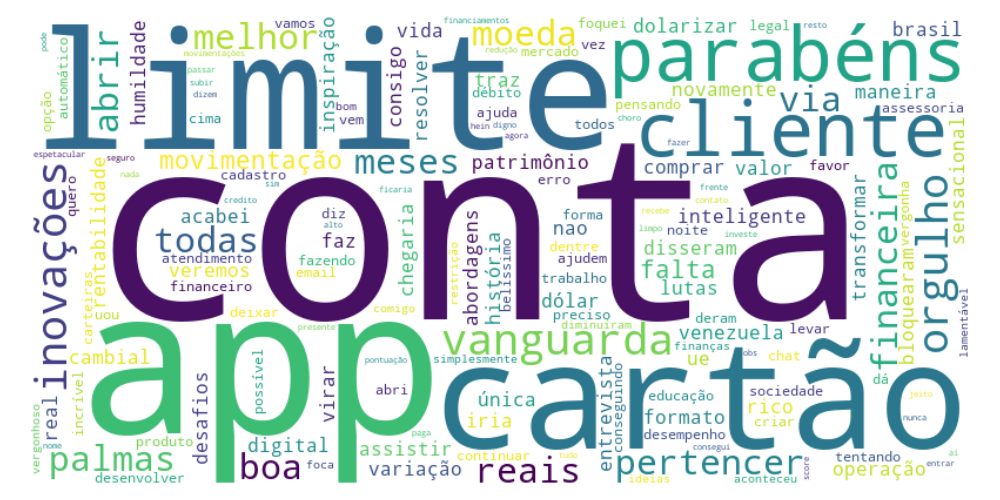
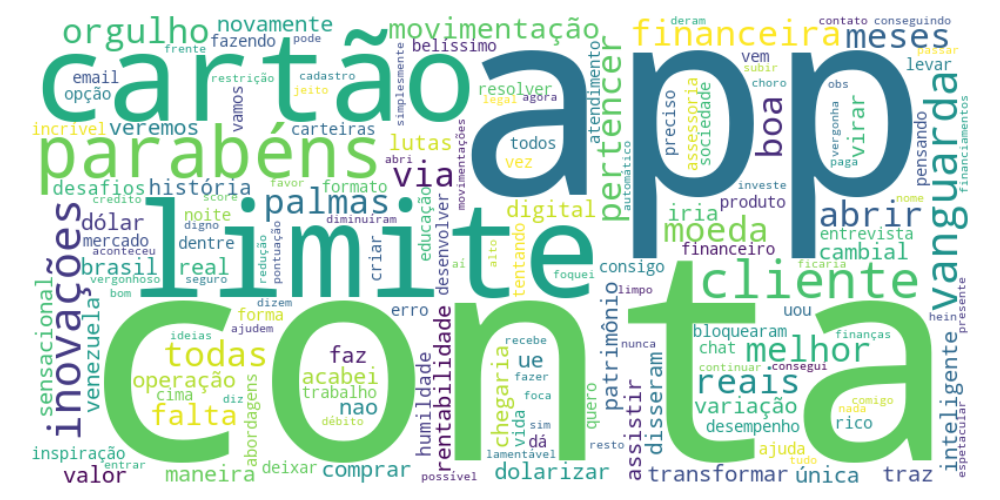
conserto das requisicoes

diff --git a/src/front/components/FeelingsCard.tsx b/src/front/components/FeelingsCard.tsx
@@ -2,13 +2,12 @@ import React, { useEffect, useState, useMemo } from "react";
 import Card from "./Card";
 import Chart from "./Chart";
 import { ArrowRightCircle } from "lucide-react";
-import { usePostLink } from "../contexts/postLink";
+import { usePost } from "../contexts/post";
 import axios from "../axios";
 
 const FeelingsCard = () => {
-	const { postLink } = usePostLink();
+	const { postLink, postData } = usePost();
 
-	const [chartData, setChartData] = useState([]);
 
 	const data = useMemo(() => {
 		return {
@@ -16,30 +15,19 @@ const FeelingsCard = () => {
 			datasets: [
 				{
 					label: "Proporção de sentimentos",
-					data: [chartData[0], chartData[1], chartData[2]],
+					data: [postData?.proportions[0], postData?.proportions[1], postData?.proportions[2]],
 					backgroundColor: ["#FF2323", "#F5F5F5", "#00D02E"],
 					borderWidth: 1,
 				},
 			],
 		};
-	}, [chartData]);
-
-	const getChartData = async () => {
-		if (postLink) {
-			const { data } = await axios.post("/proporcoes", postLink);
-			setChartData(data);
-		}
-	};
-
-	useEffect(() => {
-		getChartData();
-	}, [postLink]);
+	}, [postData?.proportions]);
 
 	return (
 		<Card gridClass="row-span-2 col-span-2 h-full" title="Sentimentos">
 			<div className="flex h-60 items-end justify-between gap-4 overflow-hidden">
 				<div className="ml-12 h-80 grow self-center">
-					{chartData && <Chart data={data} />}
+					{postData?.proportions && <Chart data={data} />}
 				</div>
 				<div className="flex cursor-pointer items-center gap-2 text-lg font-bold text-[#195AB4] transition-all hover:scale-105">
 					Ver sentimento por comentário

diff --git a/src/front/pages/index.tsx b/src/front/pages/index.tsx
@@ -4,40 +4,25 @@ import WordCloudCard from "../components/WordCloudCard";
 import Top from "../components/TopWordsCard";
 import FeelingsCard from "../components/FeelingsCard";
 import InputCard from "../components/InputCard";
-import { usePostLink } from "../contexts/postLink";
+import { usePost } from "../contexts/post";
 import axios from "../axios";
 
 
 const Home = () => {
-	const { postLink } = usePostLink();
-	const [topWords, setTopWords] = useState([]);
+	const { postLink, postData } = usePost();
 	
-	const getTopWords = async () => {
-		const { data } = await axios.post("/top-palavras", postLink);
-		setTopWords(data.top_palavras);
-	};
+	
 
 	const topWordsMemo = useMemo(
 		() =>
-			topWords.map((word) => {
+		postData?.top_words.map((word: any) => {
 				return {
 					text: word[0],
 					frequency: word[1],
 				};
 			}),
-		[topWords],
+		[postData],
 	);
-
-	const getTopProfiles = async () => {
-		const { data } = await axios.post("/top-palavras", postLink);
-		setTopWords(data);
-	};
-
-	useEffect(() => {
-		if (postLink) {
-			getTopWords();
-		}
-	}, [postLink]);
 
 	const profiles = [
 		{
@@ -49,12 +34,12 @@ const Home = () => {
 		<Layout title={"Home"}>
 			<div className="grid h-full grid-cols-3 grid-rows-6 gap-4">
 				<InputCard />
-				<Top
+				 <Top
 					gridClasses="row-span-3"
 					title="Top 10 palavras"
 					words={topWordsMemo}
 				/>
-				<WordCloudCard />
+				 <WordCloudCard />
 				<Top
 					words={profiles}
 					title="Top perfis engajados"

diff --git a/src/front/components/CommentCard.tsx b/src/front/components/CommentCard.tsx
@@ -1,23 +1,10 @@
 import React, { useEffect, useState } from 'react'
 import Card from './Card'
 import axios from '../axios';
-import { usePostLink } from '../contexts/postLink';
+import { usePost } from '../contexts/post';
 
 const CommentCard = () => {
-    const { postLink } = usePostLink();
-	const [data, setData] = useState([]);
-
-    const getData = async () => {
-		const { data: res } = await axios.post("/classificar", postLink);
-        console.log(res)
-		setData(res);
-	};
-
-	useEffect(() => {
-		if (postLink) {
-			getData();
-		}
-	}, [postLink]);
+    const { postLink, postData } = usePost();
 
   return (
     <Card gridClass='grow'>
@@ -30,7 +17,7 @@ const CommentCard = () => {
                 </tr>
             </thead>
             <tbody>
-                {data.length > 0 && data.map((item: any) => (
+                {postData?.classificacao.length > 0 && postData?.classificacao.map((item: any) => (
                 <tr key={item.author} className='bg-[#F6F6F6] overflow-hidden rounded-2xl'>
                     <td className='p-2 px-6 max-w-xl'>{item.author}</td>
                     <td className='p-2 px-6 max-w-xl'>{item.comment}</td>

diff --git a/src/front/components/InputCard.tsx b/src/front/components/InputCard.tsx
@@ -6,16 +6,17 @@ import Button from "./Button";
 import { useForm } from "react-hook-form";
 import * as yup from "yup";
 import { yupResolver } from "@hookform/resolvers/yup";
-import { usePostLink } from "../contexts/postLink";
+import { usePost } from "../contexts/post";
 import JsonData from "../utils/top-palavras.json";
+import axios from "../axios";
 
 const validationSchema = yup.object({
 	linkInput: yup.string().required("Esse campo é obrigatório"),
 });
 
 const InputCard = () => {
-	const { postLink, setPostLink } = usePostLink();
-
+	const { postLink, setPostLink, setPostData, postData } = usePost();
+	console.log(postData)
 	const {
 		register,
 		handleSubmit,
@@ -27,12 +28,17 @@ const InputCard = () => {
 		}
 	});
 
-	const onSubmit = (data: any) => {
+	const onSubmit = async (data: any) => {
 		try {
 			const jsonInfo = JSON.parse(data.linkInput);
 			setPostLink(jsonInfo)
+			const  {data: res} = await axios.post('/post-analysis', jsonInfo)
+			setPostData(res)
+
 		} catch (err) {
 			setPostLink(JsonData);
+			const  {data: res} = await axios.post('/post-analysis', JsonData)
+			setPostData(res)
 		}
 	};
 

diff --git a/src/front/contexts/post.tsx b/src/front/contexts/post.tsx
@@ -1,0 +1,50 @@
+import React, { createContext, useState, useContext } from "react";
+
+interface Post {
+	classificacao: any
+	proportions: any
+	top_words: any
+	biggest_cor: any
+	words_cloud: any
+}
+
+interface PostContextInterface {
+	postLink: any;
+	setPostLink(postLink: any): void;
+	postData: Post | null;
+	setPostData(postData: Post | null): void;
+}
+
+const PostContext = createContext<PostContextInterface | null>(null);
+
+export default function PostProvider({ children }: any) {
+	const [postLink, setPostLink] = useState<any>(null);
+	const [postData, setPostData] = useState<Post | null>(null);
+
+	return (
+		<PostContext.Provider
+			value={{
+				postLink,
+				setPostLink,
+				postData,
+				setPostData
+			}}
+		>
+			{children}
+		</PostContext.Provider>
+	);
+}
+
+export function usePost() {
+	const context = useContext(PostContext);
+	if (!context)
+		throw new Error("usePost must be used within a PostProvider");
+	const {postLink,
+		setPostLink,
+		postData,
+		setPostData } = context;
+	return { postLink,
+		setPostLink,
+		postData,
+		setPostData};
+}

diff --git a/src/front/components/WordCloudCard.tsx b/src/front/components/WordCloudCard.tsx
@@ -2,27 +2,15 @@ import React, { useEffect, useState } from 'react'
 import Card from './Card'
 import Image from 'next/image'
 import axios from '../axios';
-import { usePostLink } from '../contexts/postLink';
+import { usePost } from '../contexts/post';
 
 const WordCloudCard = () => {
-  const { postLink} = usePostLink()
-  const [imageLink, setImageLink] = useState(null)
-  
-	const getImageLink = async () => {
-		const { data } = await axios.post("/nuvem-palavras", postLink);
-		setImageLink(data.imagem_nuvem);
-    console.log(data.imagem_nuvem)
-	};
-
-	useEffect(() => {
-		if (postLink) {
-			getImageLink();
-		}
-	}, [postLink]);
-
+  const { postLink, postData} = usePost()
+ 
+	
   return (
     <Card gridClass="row-span-3 col-span-2" title="Nuvem de palavras">
-       {imageLink && <img src={imageLink}  alt="Nuvem de palavras"/>}
+       {postData && postData?.words_cloud && <img src={postData?.words_cloud}  alt="Nuvem de palavras"/>}
     </Card>
 
   )

diff --git a/src/front/pages/_app.tsx b/src/front/pages/_app.tsx
@@ -1,12 +1,12 @@
 import type { AppProps } from "next/app";
 import "../styles/globals.css";
 import "chart.js";
-import PostLinkProvider from "../contexts/postLink";
+import PostProvider from "../contexts/post";
 
 export default function App({ Component, pageProps }: AppProps) {
 	return (
-		<PostLinkProvider>
+		<PostProvider>
 			<Component {...pageProps} />
-		</PostLinkProvider>
+		</PostProvider>
 	);
 }

diff --git a/src/front/components/TopWordsCard.tsx b/src/front/components/TopWordsCard.tsx
@@ -14,7 +14,7 @@ const TopCard = ({words, gridClasses, title}: Props) => {
 	return (
 		<Card gridClass={gridClasses} title={title}>
 			<div className="flex flex-col gap-2">
-				{words.map((item) => (
+				{words && words.map((item) => (
 					<div className="flex justify-between rounded-lg bg-[#F6F6F6] px-4 py-2">
 						{item.text} {item.frequency && <span>{item.frequency}</span>}
 					</div>

diff --git a/src/api/app.py b/src/api/app.py
@@ -176,7 +176,6 @@ def servir_imagem(filename):
     return send_from_directory('imagens', filename)
 
 #CLASSIFICAÇÃO DE COMENTÁRIO
-@app.route('/classificar', methods=['POST'])
 def classificar():
     dados = request.json
     # Aplique a função emoji_to_word() aos dados do web scraping
@@ -201,10 +200,9 @@ def classificar():
         })
     
 
-    return json.dumps(res)
+    return res
 
 #PROPORÇÃO DOS SENTIMENTOS PELO TOTAL DE COMENTÁRIOS
-@app.route('/proporcoes', methods=['POST'])
 def proporcoes():
     dados = request.json["dados"]
     
@@ -227,10 +225,9 @@ def proporcoes():
     total = len(predicoes)
     proporcoes_percentual = {classe: (count/total) * 100 for classe, count in proporcoes.items()}
     
-    return jsonify(proporcoes_percentual)
+    return proporcoes_percentual
 
 #NUVEM DE PALAVRAS
-@app.route('/nuvem-palavras', methods=['POST'])
 def nuvem_palavras():
     dados = request.json["dados"]
 
@@ -265,14 +262,13 @@ def nuvem_palavras():
     plt.savefig(imagem_nuvem)
 
     # Retornar o nome do arquivo da imagem
-    return jsonify({"imagem_nuvem": "http://localhost:5000/" + imagem_nuvem})
+    return "http://localhost:5000/" + imagem_nuvem
 
 
 #TOP 10 PALAVRAS
 nltk.download('punkt')
 nltk.download('stopwords')
 
-@app.route('/top-palavras', methods=['POST'])
 def top_palavras():
     dados = request.json["dados"]
     # print(dados)
@@ -300,10 +296,9 @@ def top_palavras():
     print(top_palavras)
 
     # Retornar as top 10 palavras em formato JSON
-    return jsonify({"top_palavras": top_palavras})
+    return  top_palavras
 
 #CORRELAÇÕES DE PALAVRAS
-@app.route('/maiores-correlacoes', methods=['POST'])
 def maiores_correlacoes():
     dados = request.json["dados"]
 
@@ -341,7 +336,23 @@ def maiores_correlacoes():
         maiores_correlacoes[palavra] = palavras_relacionadas
 
     # Retornar as maiores correlações em formato JSON
-    return jsonify({"maiores_correlacoes": maiores_correlacoes})
+    return maiores_correlacoes
+
+@app.route('/post-analysis', methods=['POST'])
+def post_analysis():
+    classificacao = classificar()
+    proportions = proporcoes()
+    print(proportions)
+    top_words = top_palavras()
+    biggest_cor = maiores_correlacoes()
+    words_cloud = nuvem_palavras()
+    return jsonify({
+        'classificacao': classificacao,
+        'proportions': proportions,
+        'top_words': top_words,
+        'biggest_cor': biggest_cor,
+        'words_cloud': words_cloud
+    })
 
 
 if __name__ == '__main__':
